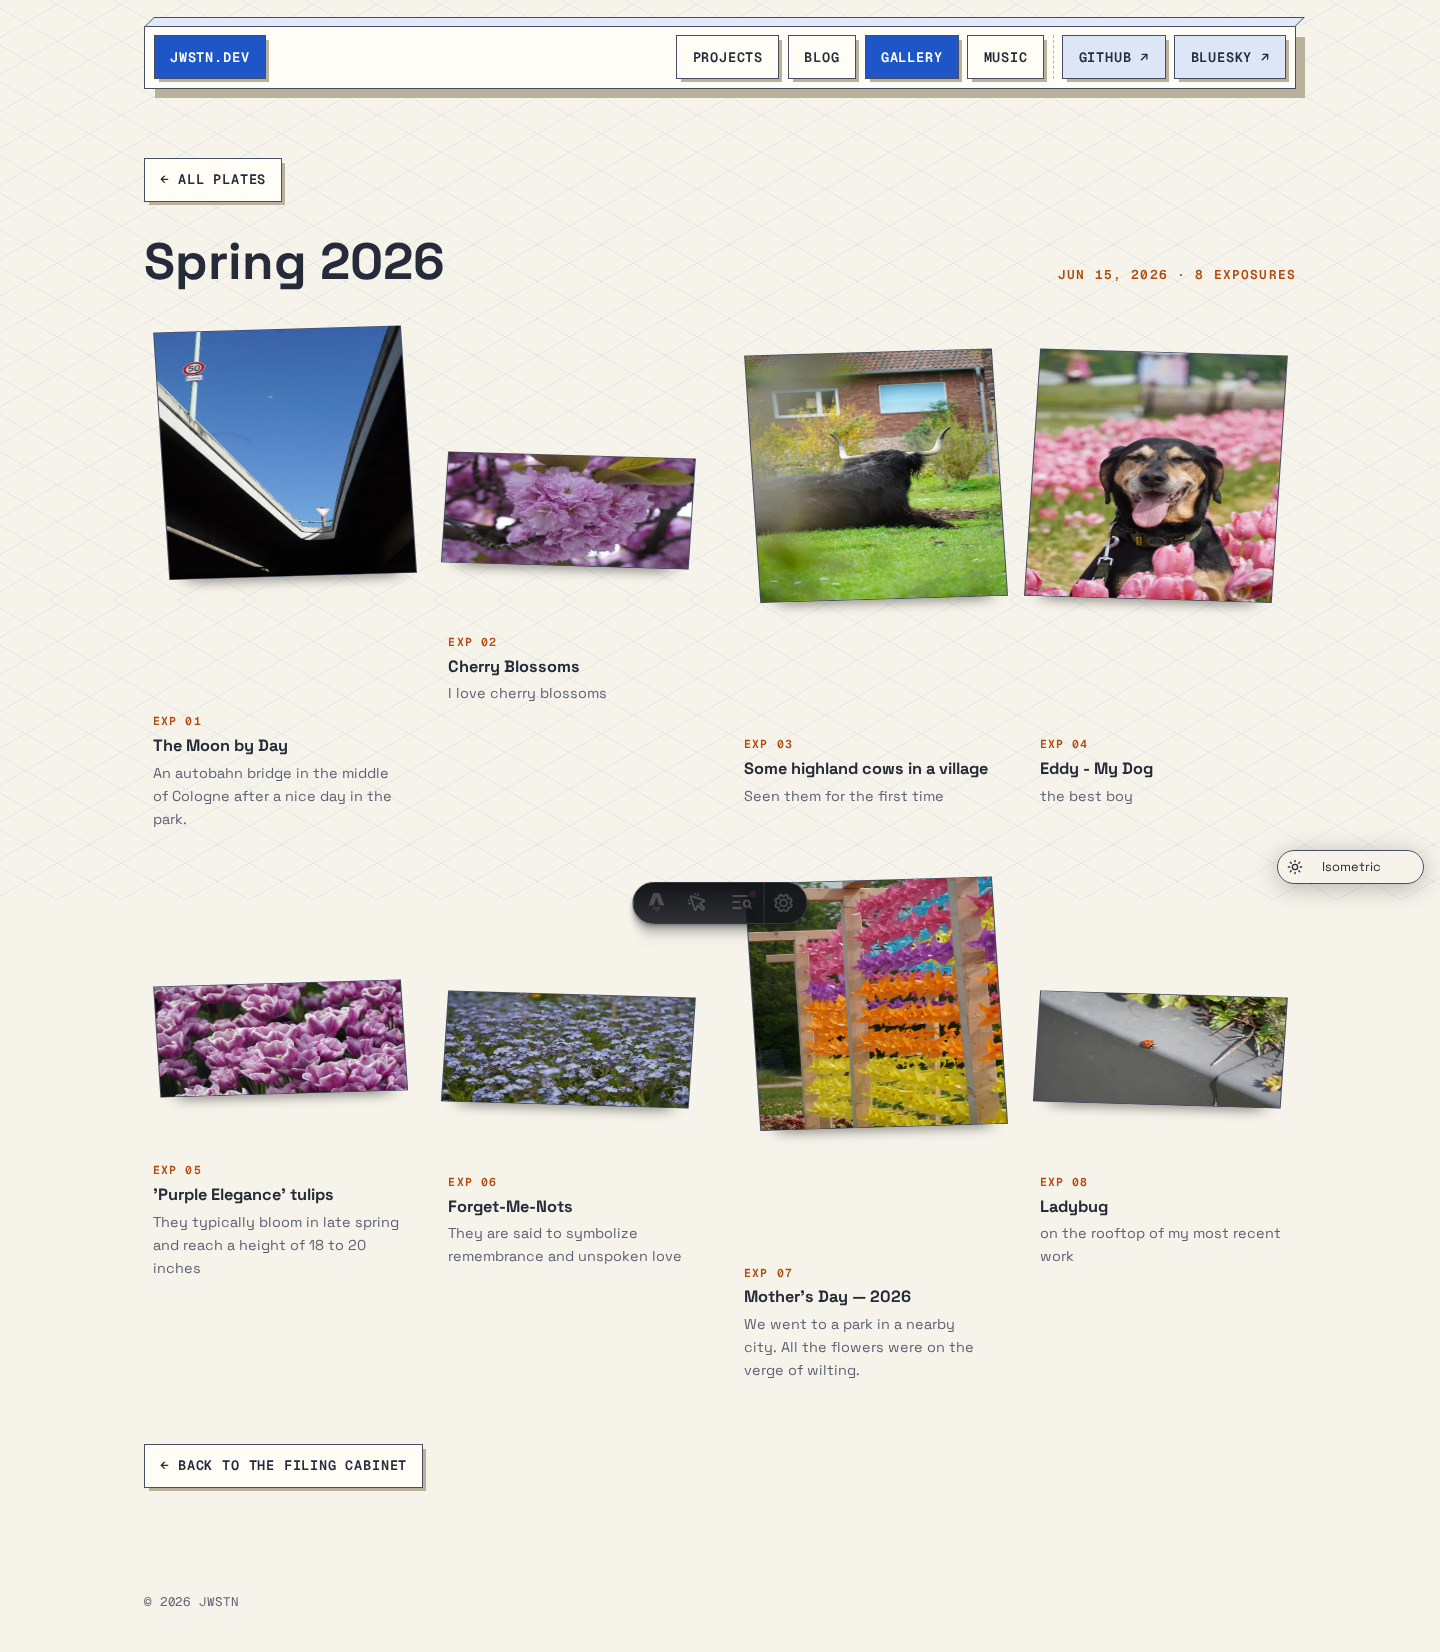
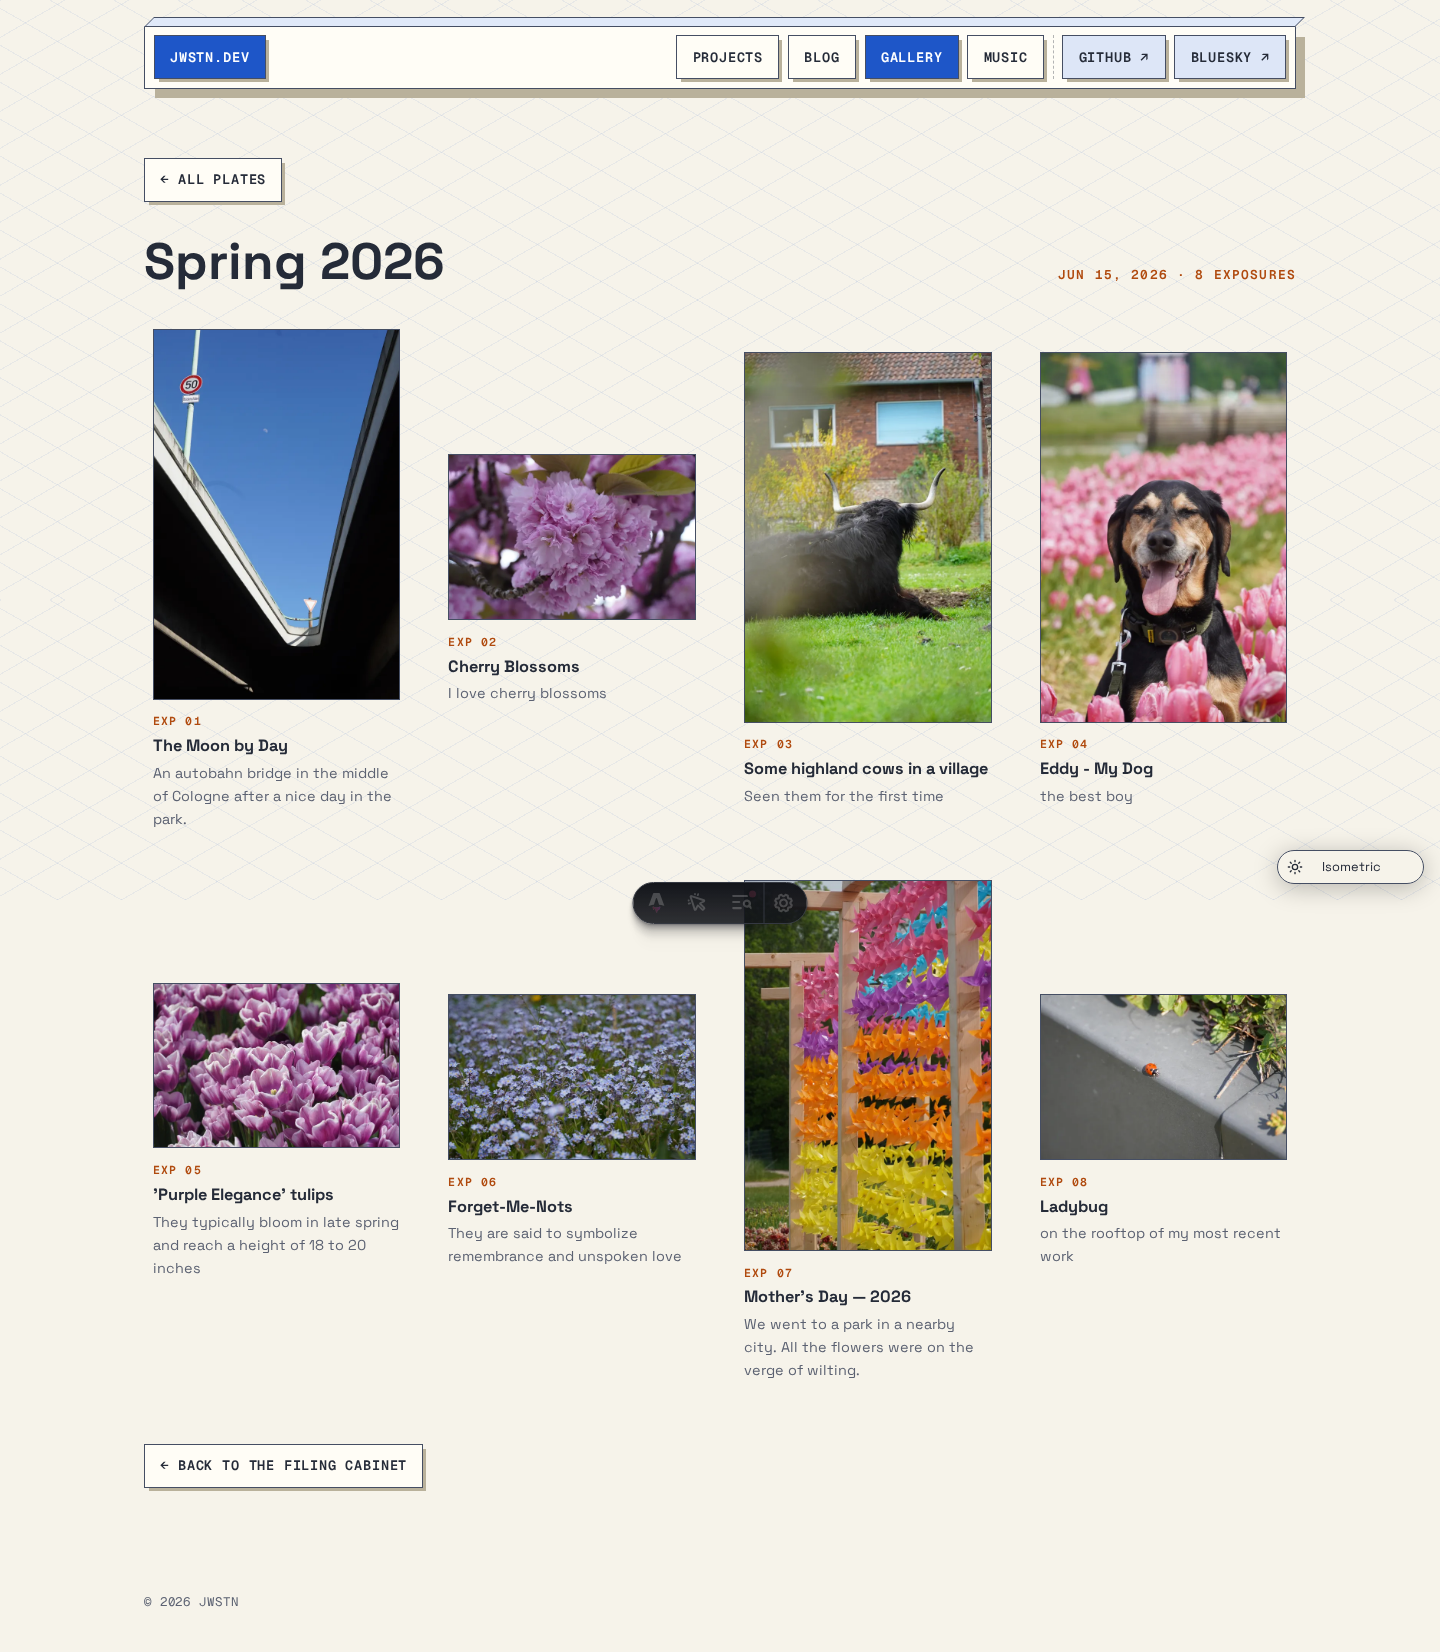
Gallery: remove isometric photo distortion, serve up to 1920px responsive images (#33)

Changed region(s): [[0.0938, 0.1852, 0.9062, 0.4631], [0.0938, 0.5248, 0.9062, 0.7718]]

diff --git a/src/themes/isometric/theme.css b/src/themes/isometric/theme.css
@@ -1052,8 +1052,6 @@ html.theme-isometric .iso-album {
 html.theme-isometric .iso-strip {
   display: grid;
   grid-template-columns: repeat(4, 1fr);
-  transform: rotateX(30deg);
-  transform-origin: 50% 0;
 }
 html.theme-isometric .iso-strip img {
   display: block;
@@ -1115,18 +1113,13 @@ html.theme-isometric .iso-platefig {
   margin: 0;
 }
 html.theme-isometric .iso-plane {
-  transform: rotateX(48deg) rotateZ(var(--iso-tilt, -2.5deg));
-  transform-origin: 50% 0;
-}
-html.theme-isometric .iso-wall > :nth-child(even) .iso-plane {
-  --iso-tilt: 2.5deg;
+  transform: none;
 }
 html.theme-isometric .iso-plane img {
   display: block;
   width: 100%;
   height: auto;
   border: 1px solid var(--iso-edge);
-  box-shadow: 0 1.4rem 1rem -1.1rem rgb(0 0 0 / 0.4);
 }
 
 html.theme-isometric .iso-plate-cap {
